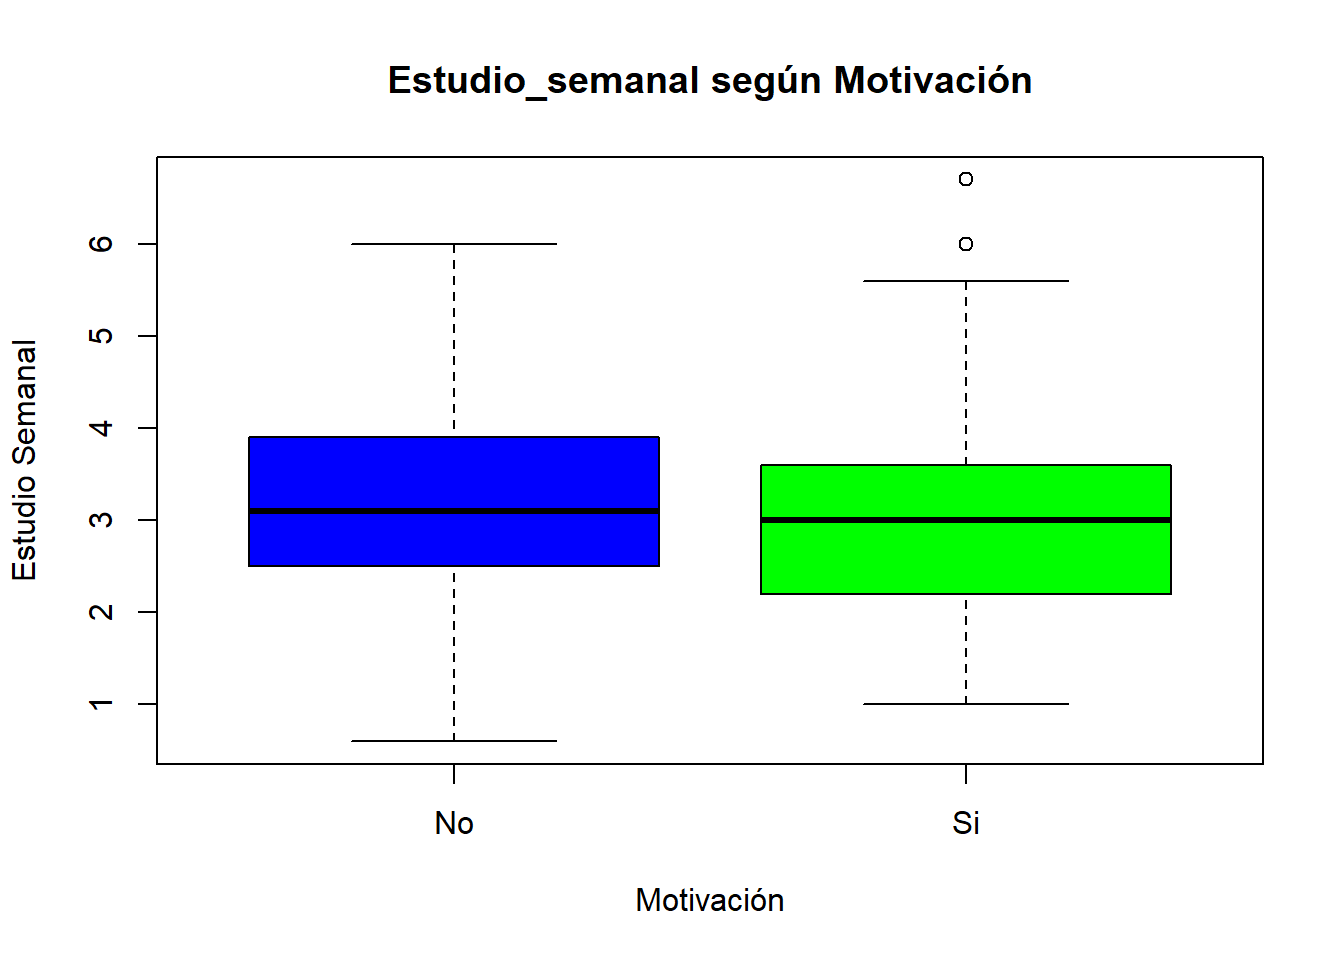
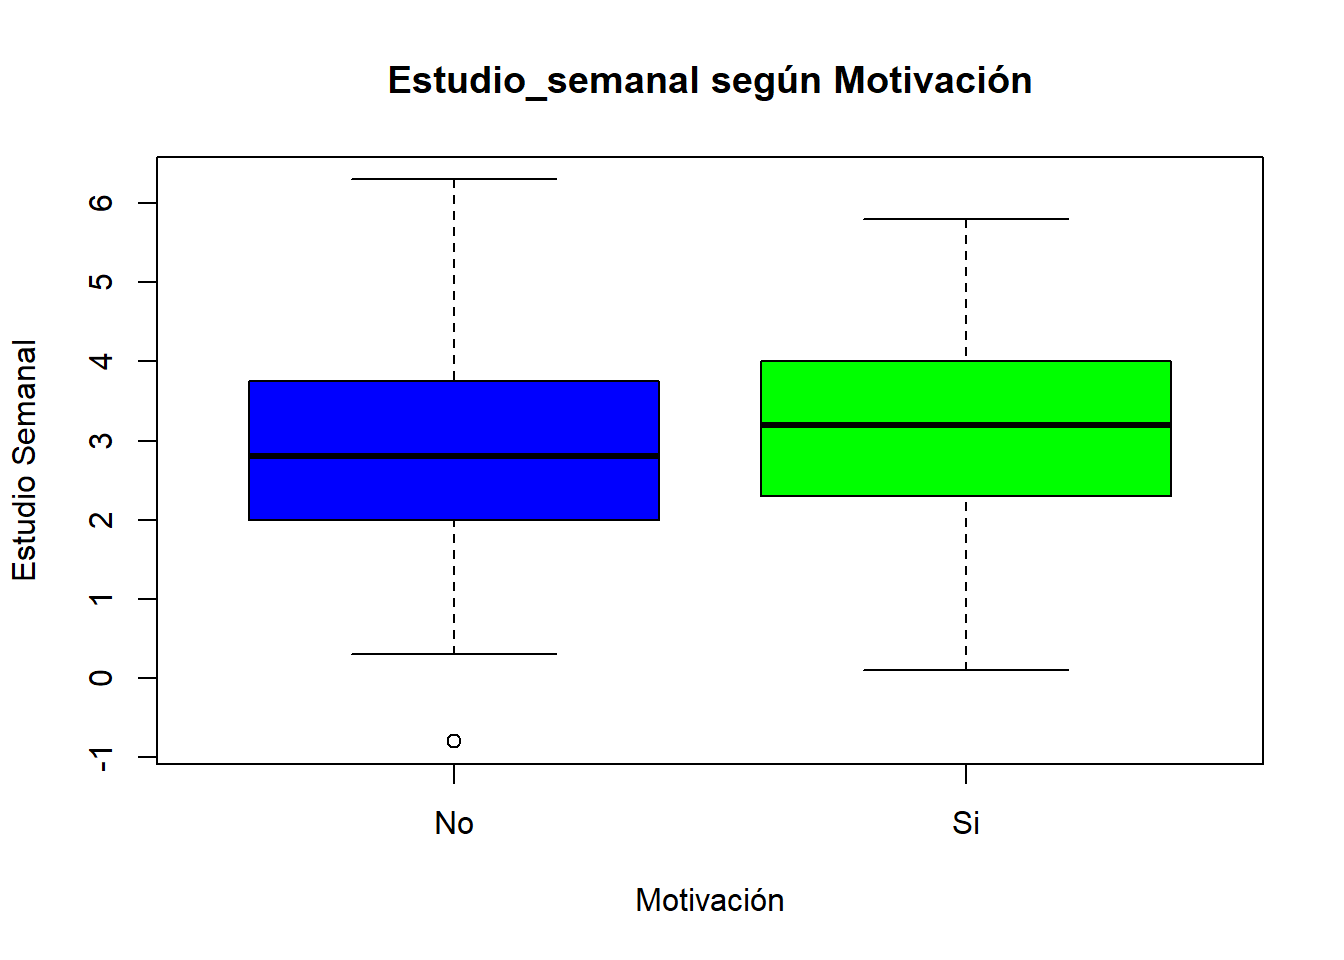
.

diff --git a/Enunciado.html b/Enunciado.html
@@ -184,8 +184,9 @@ window.Quarto = {
 </section>
 <section id="variables-nominales" class="level1">
 <h1>Variables Nominales</h1>
-<p>Vamos a distinguir entre: 1-Género (masculino, femenino) 2-Curso (1ero Bach, 2ndo Bach) # Variables Ordinales Distinguimos: 1-¿Cuánto te ayudaban las explicaciones de tu profesor de repaso? (Nada, Poco, Mucho) 2-¿Estabas más motivado desde que tomaste clases de repaso? (Si, No) 3-¿Crees que ampliaste tus conocimientos de las asignaturas en las que tomaste clases de refuerzo? (Si, No) # Variables cuantitativas 1-¿Cuántas horas le dedicabas a las clases de repaso en el curso? 2-¿Cuántas horas semanales estudiabas en tu casa desde que empezaste en repaso? 3-¿Qué media llevabas antes de empezar las clases de repaso? 4-¿Con qué media acabaste el curso anterior después de las clases de repaso?</p>
-<p>Para generar los datos, vamos a dar unas explicaciones. # Vector de medias 1-1 hora semanal, es decir 37 horas al curso 2-Supondremos que estudian unas 3 horas semanales 3-En base a mis alumnos, diremos que la media es de 4. 4-En base a mis alumnos, diremos que la media es de 6.</p>
+<p>Vamos a distinguir entre: 1-Género (masculino, femenino) 2-Curso (1ero Bach, 2ndo Bach) \ Variables Ordinales Distinguimos: \ 1-¿Cuánto te ayudaban las explicaciones de tu profesor de repaso? (Nada, Poco, Mucho)\ 2-¿Estabas más motivado desde que tomaste clases de repaso? (Si, No)\ 3-¿Crees que ampliaste tus conocimientos de las asignaturas en las que tomaste clases de refuerzo? (Si, No) \ # Variables cuantitativas 1-¿Cuántas horas le dedicabas a las clases de repaso en el curso? \ 2-¿Cuántas horas semanales estudiabas en tu casa desde que empezaste en repaso? \ 3-¿Qué media llevabas antes de empezar las clases de repaso? \ 4-¿Con qué media acabaste el curso anterior después de las clases de repaso?\</p>
+<p>Para generar los datos, vamos a dar unas explicaciones. \ # Vector de medias<br>
+1-1 hora semanal, es decir 37 horas al curso \ 2-Supondremos que estudian unas 3 horas semanales \ 3-Diremos que la media es de 4. \ 4-Diremos que la media es de 6.</p>
 <div class="cell">
 <div class="sourceCode cell-code" id="cb1"><pre class="sourceCode r code-with-copy"><code class="sourceCode r"><span id="cb1-1"><a href="#cb1-1" aria-hidden="true" tabindex="-1"></a><span class="fu">library</span>(MASS)</span></code><button title="Copy to Clipboard" class="code-copy-button"><i class="bi"></i></button></pre></div>
 </div>
@@ -219,19 +220,19 @@ window.Quarto = {
 <span id="cb2-27"><a href="#cb2-27" aria-hidden="true" tabindex="-1"></a><span class="fu">head</span>(rendimiento_estudiantil)</span></code><button title="Copy to Clipboard" class="code-copy-button"><i class="bi"></i></button></pre></div>
 <div class="cell-output cell-output-stdout">
 <pre><code>  Sexo Curso Horas_repaso_años Estudio_semanal Notas_antes Notas_despues
-1    F  2BAT              42.0             3.9           4           6.5
-2    M  2BAT              42.3             3.5           3           6.2
-3    M  2BAT              36.3             1.3           4           3.7
-4    M  2BAT              38.6             3.4           3           4.0
-5    F  2BAT              35.5             2.6           4           6.0
-6    F  2BAT              29.2             1.7           4           5.0
+1    F  2BAT              38.7             4.0           4           4.6
+2    F  1BAT              40.4             4.4           7           7.2
+3    F  1BAT              34.2             1.3           4           5.2
+4    M  2BAT              40.9             3.5           5           7.5
+5    F  1BAT              35.2             1.3           3           5.7
+6    M  2BAT              34.2             2.9           4           5.2
   Ayuda_repaso Motivación Amppliar_conocimiento
-1         Nada         No                    Si
-2         Nada         Si                    No
-3         Nada         No                    Si
-4        Mucho         Si                    Si
+1         Nada         No                    No
+2        Mucho         No                    No
+3        Mucho         No                    No
+4         Poco         No                    No
 5         Nada         No                    No
-6         Nada         Si                    No</code></pre>
+6         Poco         No                    No</code></pre>
 </div>
 </div>
 <p>Para los datos de internet, los he obtenido del link que lleva a la página del ministerio, concretamente, son datos sobre: “Gasto total de los hogares en servicios educativos y gasto medio por hogar según tipo de servicio y tamaño del municipio de residencia”.</p>
@@ -274,13 +275,13 @@ window.Quarto = {
     Pearson's product-moment correlation
 
 data:  df_preg1$Horas_repaso_años and df_preg1$Estudio_semanal
-t = 14.22, df = 148, p-value &lt; 2.2e-16
+t = 15.876, df = 148, p-value &lt; 2.2e-16
 alternative hypothesis: true correlation is not equal to 0
 95 percent confidence interval:
- 0.6827547 0.8202452
+ 0.7258232 0.8463526
 sample estimates:
       cor 
-0.7598716 </code></pre>
+0.7937541 </code></pre>
 </div>
 </div>
 <p>Concluimos que, efectivamente, las horas de repaso incentivan a los alumnos a estudiar en sus casas.</p>
@@ -335,13 +336,13 @@ sample estimates:
     Pearson's product-moment correlation
 
 data:  df_preg3$Horas_repaso_años and df_preg3$Mejora
-t = 1.1039, df = 148, p-value = 0.2714
+t = 1.6184, df = 148, p-value = 0.1077
 alternative hypothesis: true correlation is not equal to 0
 95 percent confidence interval:
- -0.07092149  0.24705079
+ -0.02900486  0.28608515
 sample estimates:
-       cor 
-0.09036715 </code></pre>
+      cor 
+0.1318696 </code></pre>
 </div>
 </div>
 <p>Efectivamente, la correlación es positiva y la pendiente de la recta de regresión también pero debemos de ser cautos a la hora de decir que si son elementos correlacionados ya que no es una correlación muy muy notoria.</p>
@@ -362,13 +363,13 @@ sample estimates:
 <div class="cell-output cell-output-stdout">
 <pre><code>
 Mucho  Nada  Poco 
-   59    44    47 </code></pre>
+   41    54    55 </code></pre>
 </div>
 <div class="sourceCode cell-code" id="cb15"><pre class="sourceCode r code-with-copy"><code class="sourceCode r"><span id="cb15-1"><a href="#cb15-1" aria-hidden="true" tabindex="-1"></a><span class="fu">print</span>(probs)</span></code><button title="Copy to Clipboard" class="code-copy-button"><i class="bi"></i></button></pre></div>
 <div class="cell-output cell-output-stdout">
 <pre><code>
     Mucho      Nada      Poco 
-0.3933333 0.2933333 0.3133333 </code></pre>
+0.2733333 0.3600000 0.3666667 </code></pre>
 </div>
 </div>
 <p>Los parametros en una distribución multinomial son las probabilidades anteriores. Por tanto, los estimadores son 0.3267, 0.3467, 0.3266.</p>
@@ -379,7 +380,7 @@ Mucho  Nada  Poco
 <span id="cb17-4"><a href="#cb17-4" aria-hidden="true" tabindex="-1"></a>probabilidad <span class="ot">&lt;-</span> <span class="fu">dmultinom</span>(subgrupo, <span class="at">size =</span> <span class="dv">20</span>, <span class="at">prob =</span> probs)</span>
 <span id="cb17-5"><a href="#cb17-5" aria-hidden="true" tabindex="-1"></a><span class="fu">print</span>(probabilidad)</span></code><button title="Copy to Clipboard" class="code-copy-button"><i class="bi"></i></button></pre></div>
 <div class="cell-output cell-output-stdout">
-<pre><code>[1] 0.03426304</code></pre>
+<pre><code>[1] 0.02887522</code></pre>
 </div>
 </div>
 <p>La probabilidad es muy baja, es decir, no podemos afirmar la hipótesis del enunciado.</p>
@@ -406,38 +407,38 @@ lm(formula = rendimiento_estudiantil$Notas_despues ~ rendimiento_estudiantil$Not
 
 Residuals:
      Min       1Q   Median       3Q      Max 
--3.01078 -0.49793 -0.00972  0.64519  1.93365 
+-2.47990 -0.72062 -0.05844  0.69871  2.71167 
 
 Coefficients:
                                           Estimate Std. Error t value Pr(&gt;|t|)
-(Intercept)                                3.30493    0.56937   5.805 3.87e-08
-rendimiento_estudiantil$Notas_antes        0.51217    0.07942   6.449 1.55e-09
-rendimiento_estudiantil$Horas_repaso_años -0.02374    0.01979  -1.199    0.232
-rendimiento_estudiantil$Estudio_semanal    0.48174    0.10415   4.625 8.17e-06
+(Intercept)                                1.99524    0.54731   3.646  0.00037
+rendimiento_estudiantil$Notas_antes        0.54700    0.07585   7.211 2.77e-11
+rendimiento_estudiantil$Horas_repaso_años  0.02905    0.01961   1.481  0.14072
+rendimiento_estudiantil$Estudio_semanal    0.18377    0.10083   1.823  0.07042
                                              
 (Intercept)                               ***
 rendimiento_estudiantil$Notas_antes       ***
 rendimiento_estudiantil$Horas_repaso_años    
-rendimiento_estudiantil$Estudio_semanal   ***
+rendimiento_estudiantil$Estudio_semanal   .  
 ---
 Signif. codes:  0 '***' 0.001 '**' 0.01 '*' 0.05 '.' 0.1 ' ' 1
 
-Residual standard error: 0.9247 on 146 degrees of freedom
-Multiple R-squared:  0.447, Adjusted R-squared:  0.4357 
-F-statistic: 39.35 on 3 and 146 DF,  p-value: &lt; 2.2e-16</code></pre>
+Residual standard error: 1.014 on 146 degrees of freedom
+Multiple R-squared:  0.4863,    Adjusted R-squared:  0.4757 
+F-statistic: 46.07 on 3 and 146 DF,  p-value: &lt; 2.2e-16</code></pre>
 </div>
 <div class="sourceCode cell-code" id="cb21"><pre class="sourceCode r code-with-copy"><code class="sourceCode r"><span id="cb21-1"><a href="#cb21-1" aria-hidden="true" tabindex="-1"></a>predicciones <span class="ot">&lt;-</span> <span class="fu">predict</span>(modelo, rendimiento_estudiantil)</span>
 <span id="cb21-2"><a href="#cb21-2" aria-hidden="true" tabindex="-1"></a>ECM <span class="ot">&lt;-</span> <span class="fu">mean</span>((rendimiento_estudiantil<span class="sc">$</span>Notas_despues <span class="sc">-</span> predicciones)<span class="sc">^</span><span class="dv">2</span>) <span class="co">#Error cuadratico medio</span></span>
 <span id="cb21-3"><a href="#cb21-3" aria-hidden="true" tabindex="-1"></a><span class="fu">print</span>(<span class="fu">paste</span>(<span class="st">"Error Cuadrático Medio:"</span>, ECM))</span></code><button title="Copy to Clipboard" class="code-copy-button"><i class="bi"></i></button></pre></div>
 <div class="cell-output cell-output-stdout">
-<pre><code>[1] "Error Cuadrático Medio: 0.832211152692605"</code></pre>
+<pre><code>[1] "Error Cuadrático Medio: 1.00056313546278"</code></pre>
 </div>
 </div>
 <p>Antes de interpretar el ECM, debemos calcular la varianza y ver si el error cuadrático medio es mucho menor que esta</p>
 <div class="cell">
 <div class="sourceCode cell-code" id="cb23"><pre class="sourceCode r code-with-copy"><code class="sourceCode r"><span id="cb23-1"><a href="#cb23-1" aria-hidden="true" tabindex="-1"></a><span class="dv">149</span><span class="sc">/</span><span class="dv">150</span><span class="sc">*</span><span class="fu">var</span>(rendimiento_estudiantil<span class="sc">$</span>Notas_despues)</span></code><button title="Copy to Clipboard" class="code-copy-button"><i class="bi"></i></button></pre></div>
 <div class="cell-output cell-output-stdout">
-<pre><code>[1] 1.505033</code></pre>
+<pre><code>[1] 1.94772</code></pre>
 </div>
 </div>
 <p>En este caso, el ECM es casi la mitad de la varianza, por tanto es demasiado alto, esto nos dice que puede haber errores en nuestra predicción.</p>
@@ -464,10 +465,10 @@ F-statistic: 39.35 on 3 and 146 DF,  p-value: &lt; 2.2e-16</code></pre>
 <span id="cb27-4"><a href="#cb27-4" aria-hidden="true" tabindex="-1"></a></span>
 <span id="cb27-5"><a href="#cb27-5" aria-hidden="true" tabindex="-1"></a><span class="fu">print</span>(<span class="fu">hotelling.test</span>(grupo_NO, grupo_SI))</span></code><button title="Copy to Clipboard" class="code-copy-button"><i class="bi"></i></button></pre></div>
 <div class="cell-output cell-output-stdout">
-<pre><code>Test stat:  0.040331 
+<pre><code>Test stat:  1.5102 
 Numerator df:  1 
 Denominator df:  148 
-P-value:  0.8411 </code></pre>
+P-value:  0.2211 </code></pre>
 </div>
 </div>
 <p>Notamos que, segun el p-valor que hemos obtenido, aceptamos la hipótesis nula, es decir, la media de las calificaciones de los alumnos que creen que han ampliado su conocimiento es igual a las de los que creen que no. Tendemos a pensar que ampliar conocimientos en una asignatura es directamente proporcional a sacar buenas calificaciones en esta. En este caso se muestra como la gente puede pensar que no se amplian sus conocimientos pero si sacan mejores calificaciones.</p>
